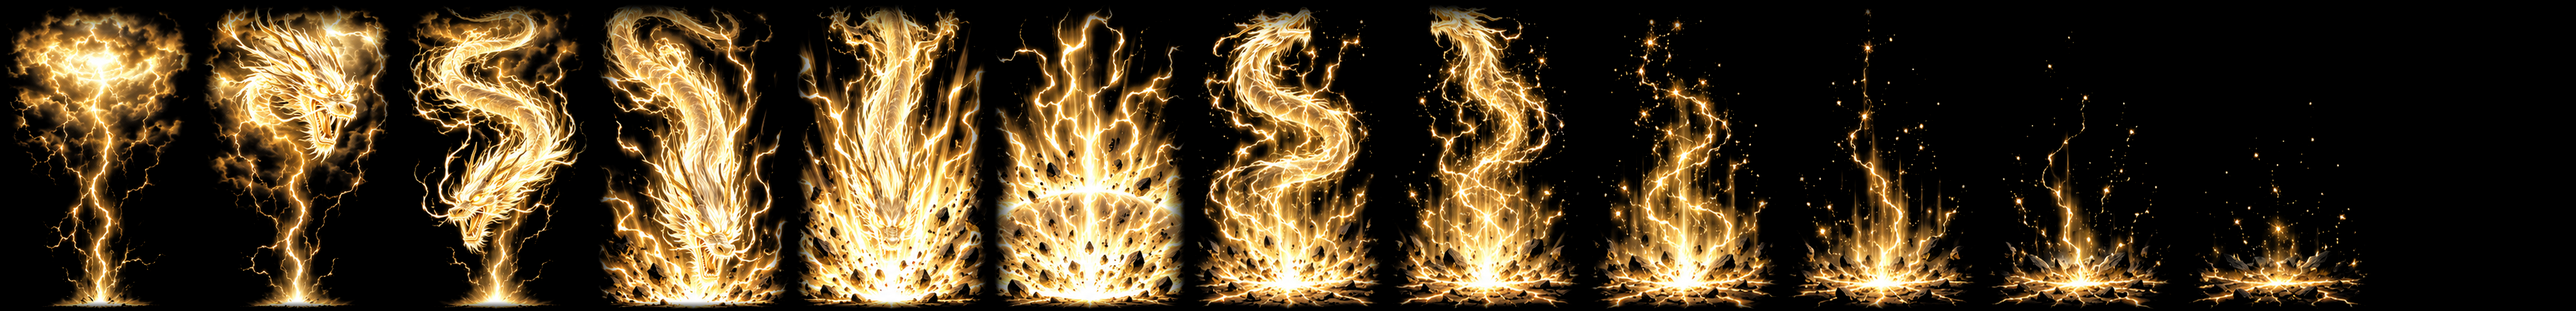
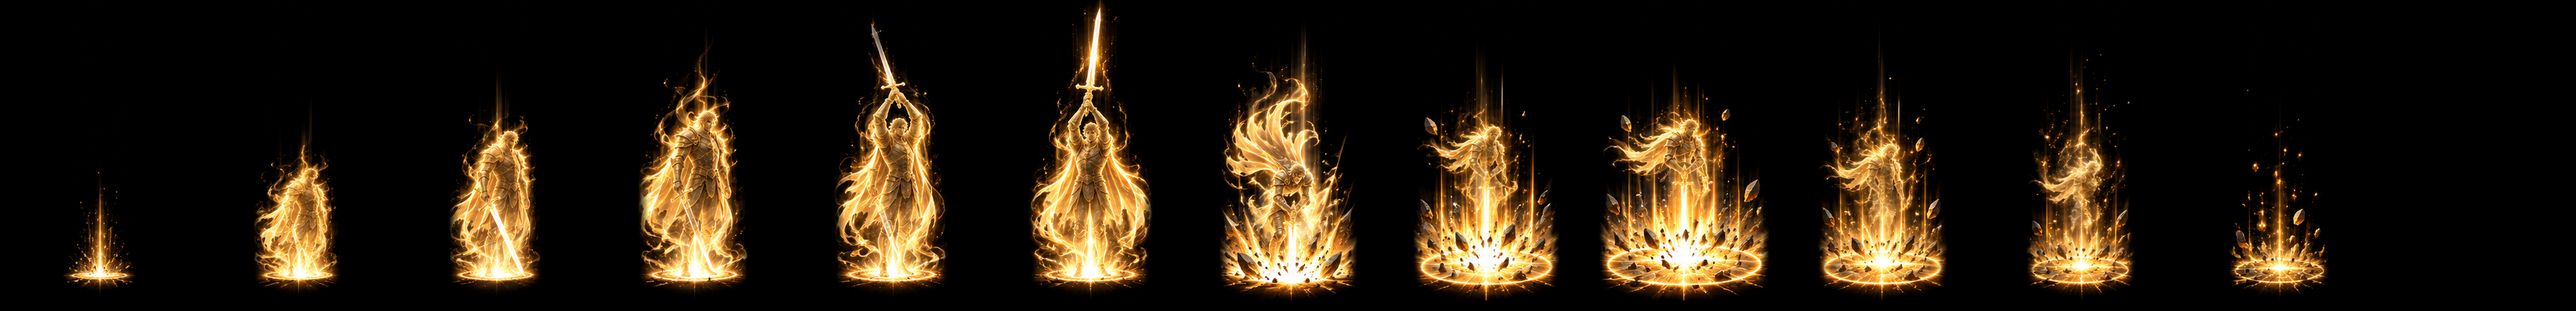
Titan's Verdict: the dragon is replaced by a colossal titan of light (the warrior, no shield) rising behind him and driving its giant sword into the floor — a wide golden shockwave; timing retimed so the sword lands on the impact; skill-book description updated
Claude-Session: https://claude.ai/code/session_0179BFGqN9ps681Yef5tVH6E

diff --git a/src/skills/SkillFx.ts b/src/skills/SkillFx.ts
@@ -503,10 +503,10 @@ export class SkillFx {
   /** Titan's Verdict: a colossal lightning dragon dives from the sky onto the target zone (after the cut-in and screen split). */
   private dragon(r: CastRun): void {
     const T = r.timings, a = r.aim, at = { x: r.origin.x + a.x * 110, y: r.origin.y + a.y * 110 };
-    const pre = 420, dive = T.startup - pre; // the dragon dives after the cut-in and the tear // frames 0-3 dive in, frame 4 = impact on the active start
+    const pre = 480, dive = Math.max(0, T.startup - pre); // the titan of light rises after the cut-in and the tear: frames 0-5 rise and lift the sword, frame 6 = the sword driven into the floor on the active start
     const img = this.scene.add.image(at.x, at.y + 10, 'titan-dragon', 0).setOrigin(0.5, 0.97).setBlendMode(Phaser.BlendModes.ADD).setDisplaySize(470, 740).setDepth(TOP + 2);
-    const fr = [12, 0, 1, 2, 3, 4, 5, 5, 6, 7, 8, 9, 10, 11]; // 12 = empty frame while the cut-in plays (sim-timed)
-    const fms = [dive, pre * 0.25, pre * 0.25, pre * 0.25, pre * 0.25, 130, 160, 140, 170, 170, 170, 180, 200, 240];
+    const fr = [12, 0, 1, 2, 3, 4, 5, 6, 7, 8, 9, 10, 11]; // 12 = empty frame while the cut-in plays (sim-timed)
+    const fms = [dive, pre * 0.14, pre * 0.14, pre * 0.16, pre * 0.16, pre * 0.18, pre * 0.22, 150, 170, 180, 190, 210, 260];
     this.anims.push({ img, t: 0, total: fms.reduce((x, y) => x + y, 0), frames: fr, frameMs: fms, fadeLast: 240 });
     this.scene.time.delayedCall(T.startup, () => { // impact flash rings
       this.shockwave(at.x, at.y, 320, 0xfff0b0); this.scene.time.delayedCall(90, () => this.shockwave(at.x, at.y, 420, 0xffc860));

diff --git a/src/skills/FinalKit.ts b/src/skills/FinalKit.ts
@@ -102,7 +102,7 @@ const warrior: FinalSkill[] = [
     hits: [H(0, 14, { kind: 'circle', radius: 190, at: 'aimBias', bias: 110 }, { stun: 600, launch: 150, juggleCost: 0 }, { reachUp: 260, heavy: true }),
       ...[90, 160, 230, 300, 370, 440, 510, 580].map((t) => H(t, 6, { kind: 'circle', radius: 200, at: 'aimBias', bias: 110 }, { stun: 420, float: true }, { reachUp: 320 }))],
     endsCombo: true, tags: ['ultimate'], telegraph: 'cone',
-    description: 'Sword lifted, ground-crack telegraph, overhead impact. Heavy knockdown; ends the combo.',
+    description: 'Raise your sword with a battle roar: a colossal titan of light rises behind you and drives its giant sword into the floor, and a golden shockwave tears across the arena. Heavy knockdown; ends the combo.',
     relations: ['Ultimate', 'Ends combo'],
   }),
   // ---- extended kit (Q R F G C V)
